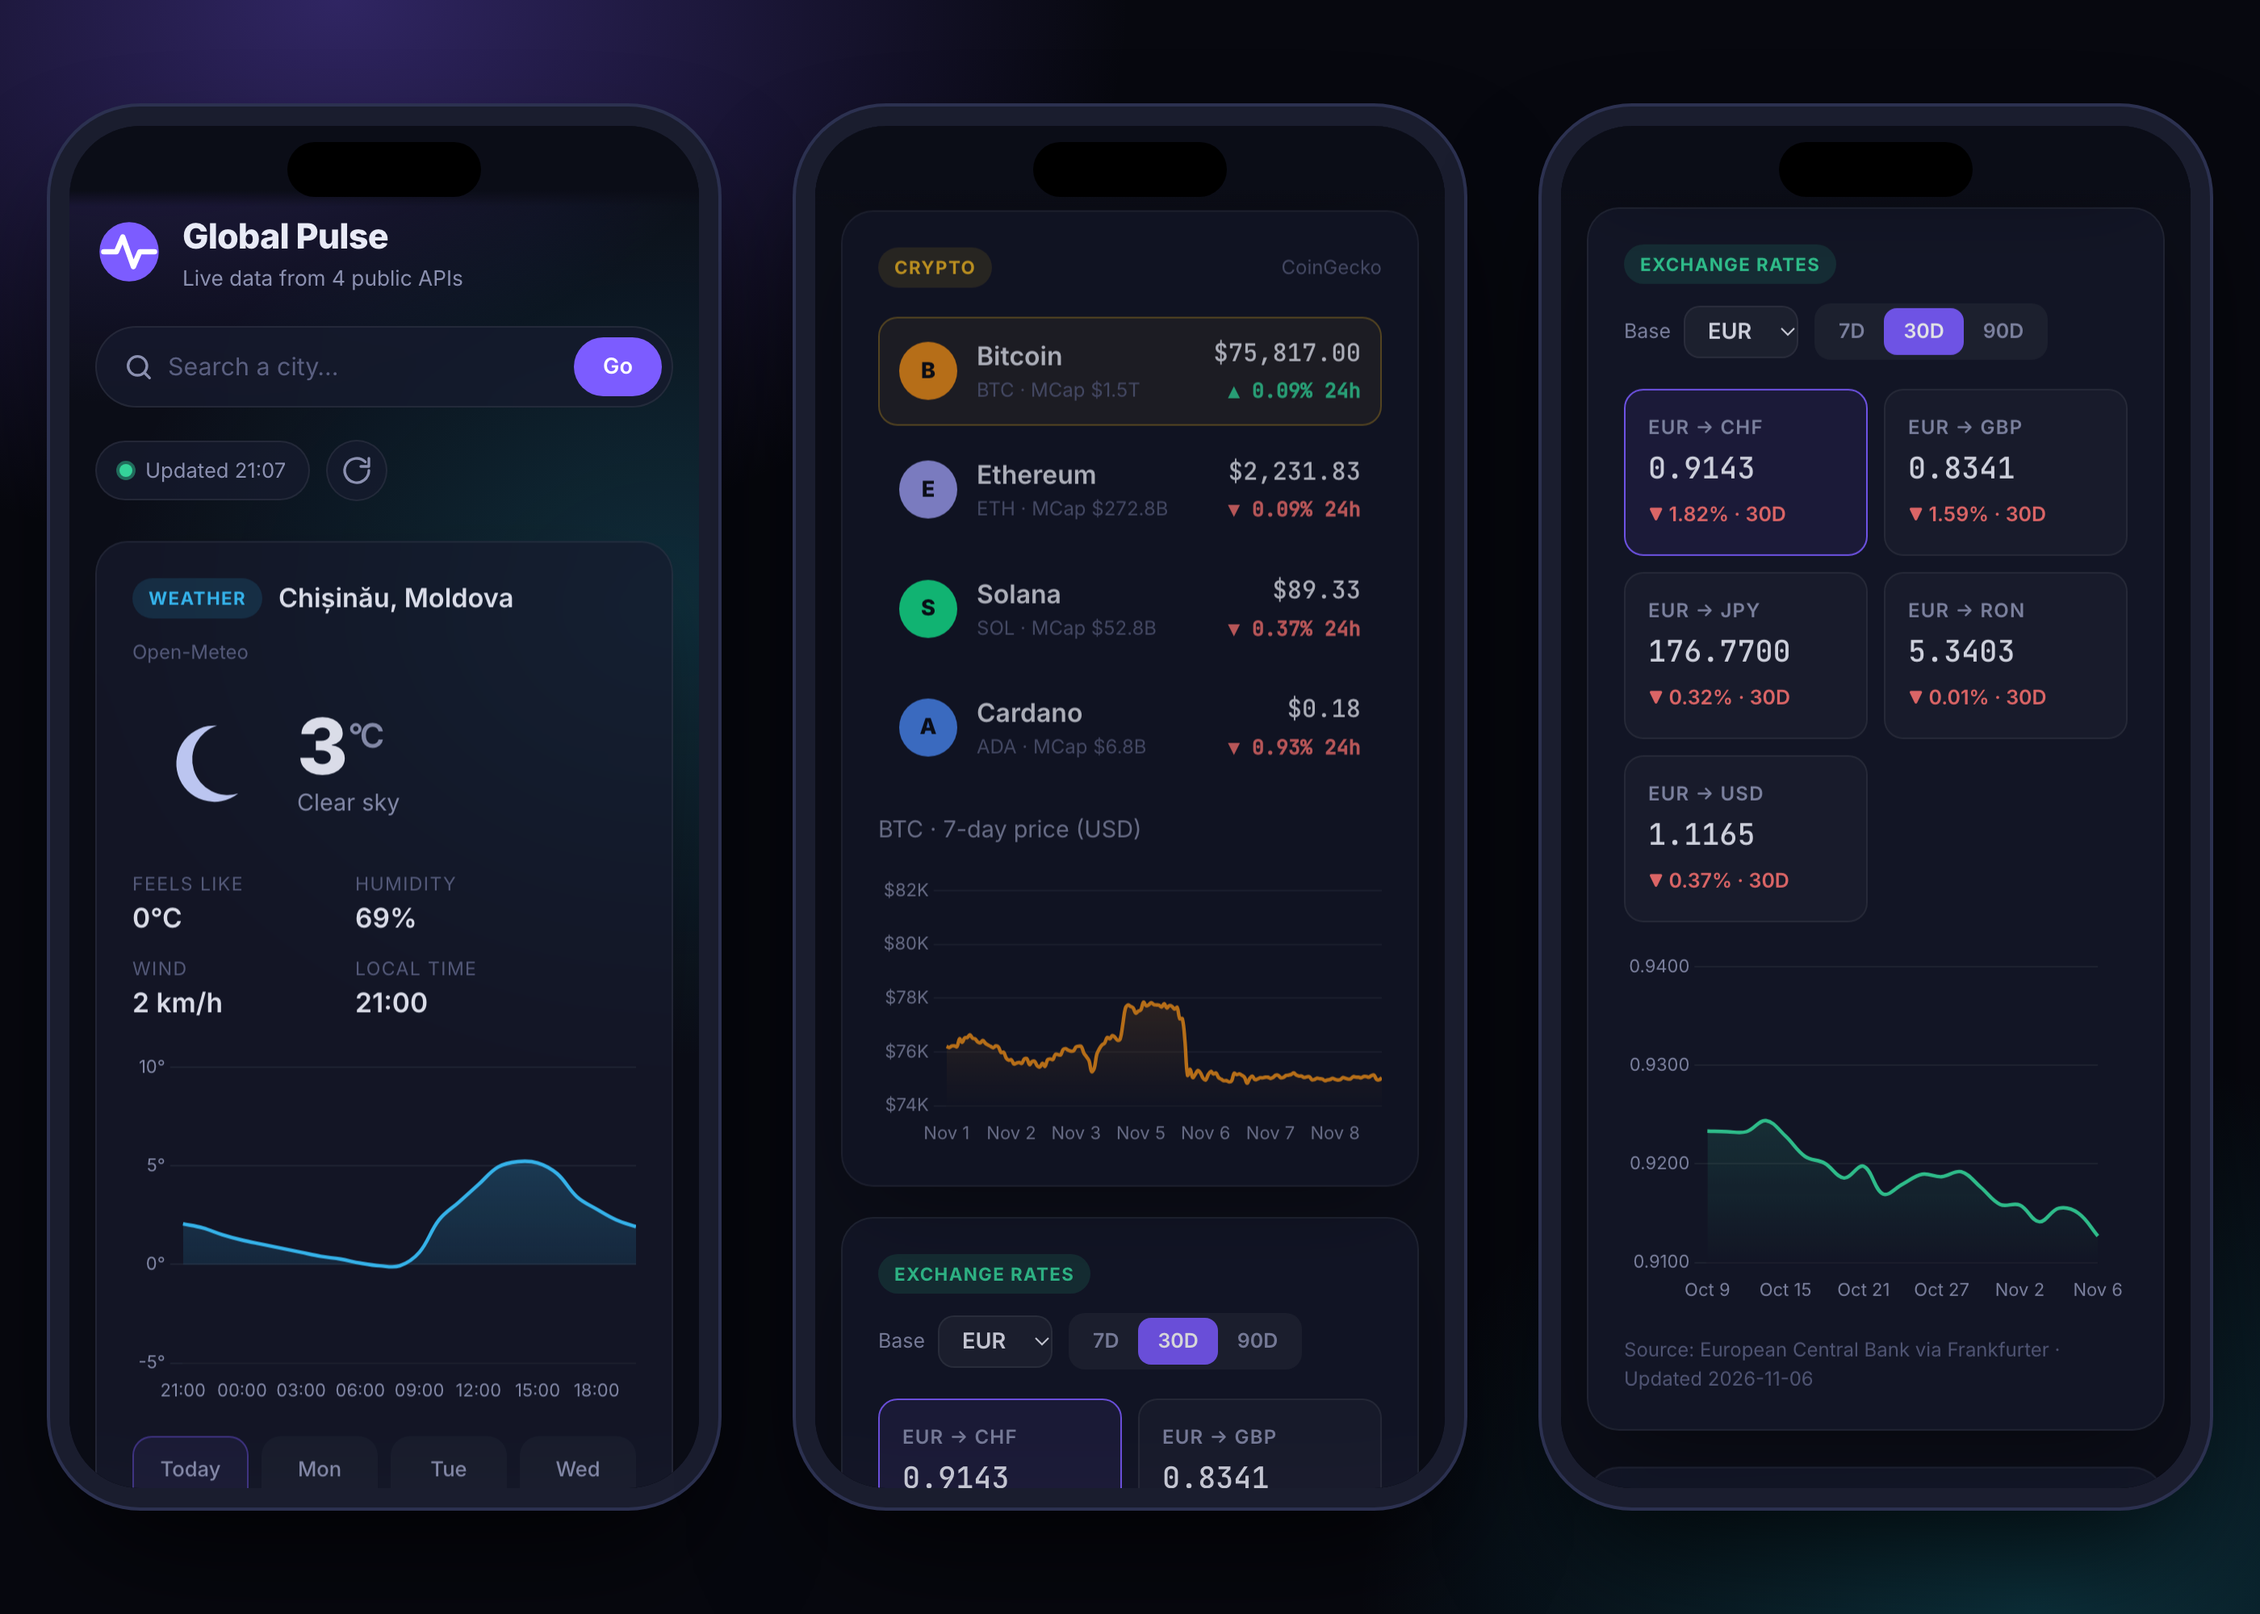
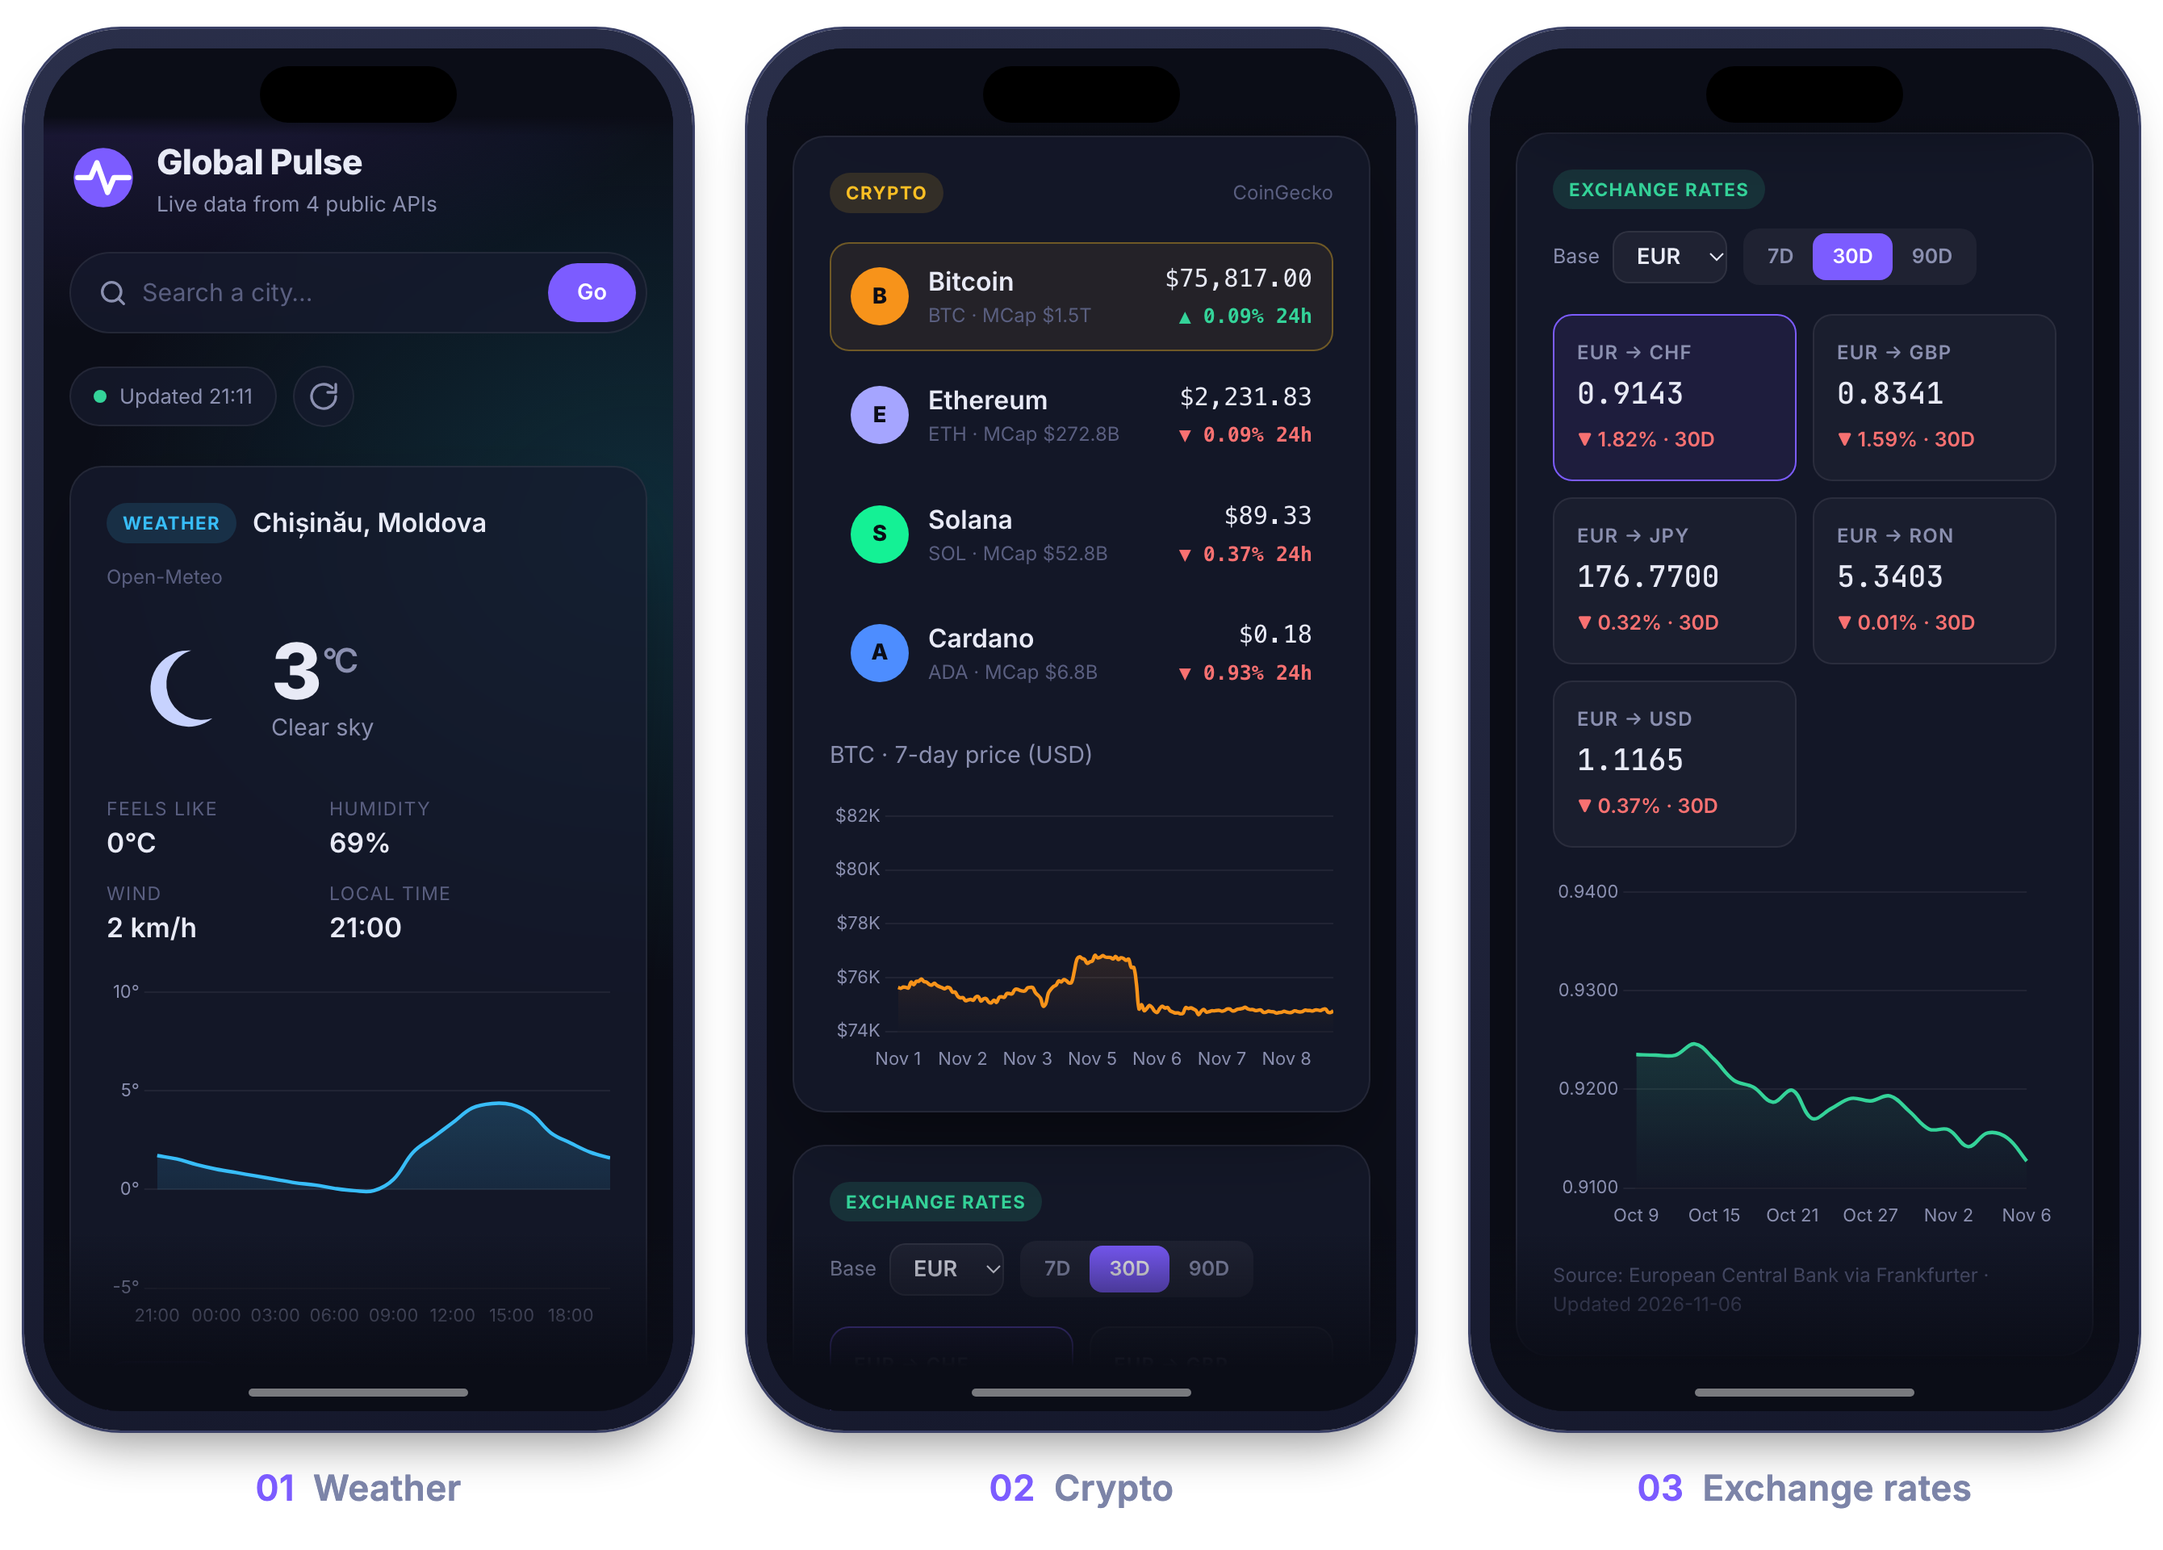
Polish README screenshots and respect reduced motion
- Mobile mockup now has a transparent background, larger phones,
  captions and a soft bottom fade, so it looks right on both GitHub
  light and dark themes
- Move screenshots to a dedicated section near the top of the README
- Disable animations when the user prefers reduced motion

diff --git a/static/css/style.css b/static/css/style.css
@@ -404,4 +404,13 @@ button { font: inherit; color: inherit; cursor: pointer; border: 0; background: 
 .toast.error { border-color: rgba(248, 113, 113, 0.5); }
 .toast.success { border-color: rgba(52, 211, 153, 0.5); }
 
+/* Accessibility: respect users who disabled animations at the OS level. */
+@media (prefers-reduced-motion: reduce) {
+  *, *::before, *::after {
+    animation-duration: 0.01ms !important;
+    animation-iteration-count: 1 !important;
+    transition-duration: 0.01ms !important;
+  }
+}
+
 .footer { text-align: center; color: var(--faint); font-size: 0.78rem; padding: 32px 0; }

diff --git a/README.md b/README.md
@@ -4,7 +4,17 @@ A live dashboard that **aggregates data from four public APIs** behind a clean, 
 **FastAPI** backend and presents it in a responsive web UI. It also **automates delivery**
 by pushing a formatted digest to **Telegram**.
 
+## Screenshots
+
+**Desktop**
+
 ![Desktop screenshot](docs/screenshot-desktop.png)
+
+**Mobile**: the layout adapts to phone screens
+
+<p align="center">
+  <img src="docs/screenshot-mobile.png" alt="Mobile screenshots: weather, crypto and exchange rates" width="100%">
+</p>
 
 ## What it does
 
@@ -24,7 +34,7 @@ by pushing a formatted digest to **Telegram**.
 - **TTL cache** so the dashboard stays fast and respects third-party rate limits
 - **Security**: secrets come from `.env`, the Telegram token never appears in logs or responses, and user content is HTML-escaped
 - **Tests**: 11 pytest tests, with every external API mocked through `httpx.MockTransport` (they run offline in under a second)
-- **Responsive UI** built with vanilla JS and Chart.js: dark glassmorphism design, loading skeletons, toasts and auto-refresh every 5 minutes
+- **Responsive UI** built with vanilla JS and Chart.js: dark glassmorphism design, loading skeletons, toasts and auto-refresh every 5 minutes; respects `prefers-reduced-motion`
 
 ## Architecture
 
@@ -96,12 +106,6 @@ To get a daily briefing automatically, schedule it with cron:
 pytest        # 11 tests, fully offline
 ruff check .  # lint
 ```
-
-## Mobile
-
-Fully responsive. Here it is on a 390px-wide phone screen:
-
-![Mobile screenshots](docs/screenshot-mobile.png)
 
 ## Tech stack
 
